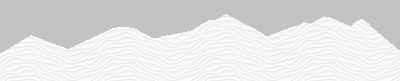
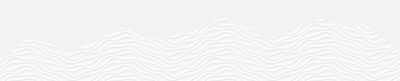
Reflecting style changes on sub-pages and other subtle style changes

diff --git a/about.html b/about.html
@@ -6,7 +6,7 @@
     <meta http-equiv="content-type" content="text/html; charset=utf-8" />
     <meta name="description" content="Glen Rudge writing poetry and musings" />
     <meta name="keywords" content="Glen Rudge poetry" />
-    <link href="https://fonts.googleapis.com/css?family=Encode+Sans+Condensed" rel="stylesheet">
+    <link href="https://fonts.googleapis.com/css?family=El+Messiri|Encode+Sans+Condensed" rel="stylesheet">
     <script src="http://ajax.googleapis.com/ajax/libs/jquery/1.11.0/jquery.min.js"></script>
 
     <script src="js/skel.min.js"></script>
@@ -25,19 +25,22 @@
         <div id="headerimg">
             <h1><a href="#">Savory Leaves</a></h1><span>The writings of Glen Rudge</span>
         </div>
+        <nav id='nav'>
+            <ul>
+                <li><a href="index.html">Homepage</a></li>
+                <li class="current_page_item"><a href="About.html">About</a></li>
+                <li><a href="Books.html">Books</a></li>
+            </ul>
+        </nav>
     </div>
-    <nav id='nav'>
-        <ul>
-            <li><a href="index.html">Homepage</a></li>
-            <li class="current_page_item"><a href="About.html">About</a></li>
-            <li><a href="Books.html">Books</a></li>
-        </ul>
-    </nav>
+
+
+
     <div id="wrapper">
         <div id="container">
             <div class="entry">
                 <h2>About Glen</h2>
-                <p>Glen's is a poet, a writer and a dreamer. Using his creative mind, he transorms words
+                <p>Glen's is a poet, a writer and a dreamer. Using his creative mind, he tranfsorms words
                     into a temporary environment you feel a part of.
                     Glen has a way of channeling his thoughts and captivating his readers. He has some of the most
                     beautiful

diff --git a/books.html b/books.html
@@ -27,14 +27,14 @@
                 <h1><a href="#">Savory Leaves</a></h1><span>The writings of Glen Rudge</span>
             </div>
         </div>
+        <nav id='nav'>
+            <ul>
+                <li><a href="index.html">Homepage</a></li>
+                <li><a href="About.html">About</a></li>
+                <li class="current_page_item"><a href="Books.html">Books</a></li>
+            </ul>
+        </nav>
     </div>
-    <nav id='nav'>
-        <ul>
-            <li><a href="index.html">Homepage</a></li>
-            <li><a href="About.html">About</a></li>
-            <li class="current_page_item"><a href="Books.html">Books</a></li>
-        </ul>
-    </nav>
     <div id="wrapper">
         <div id="page">
             <div id="container">

diff --git a/css/style.css b/css/style.css
@@ -29,6 +29,7 @@ h2 {
 
 p {
 	line-height: 170%;
+	padding: 10px;
 }
 
 a {
@@ -50,7 +51,7 @@ ul.type1 {
 
 ul.type1 li {
 	padding: 1.25em 0em 2.5em 0em;
-	background: url(images/img02.jpg) repeat-x left top;
+	/*background: url(images/img02.jpg) repeat-x left top;*/
 }
 
 ul.type1 a {
@@ -157,7 +158,7 @@ ul.type1 img {
 /*  content separator  */
 #content {
 		overflow: hidden;
-		background: url(images/img02.jpg) repeat-x left bottom;
+		background: url(images/img022.jpg) repeat-x left bottom;
 }
 
 /* Frame div contains a repeatable"blog post" style space */

diff --git a/css/style-full.css b/css/style-full.css
@@ -88,7 +88,7 @@ header and headerimg
 
 #page {
 	overflow: hidden;
-	background: url(images/img02.jpg) repeat-x left bottom;
+	background: url(images/img022.jpg) repeat-x left bottom;
 }
 
 
